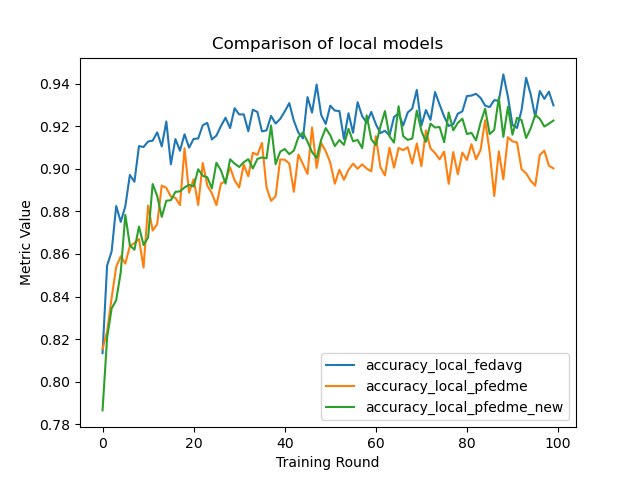
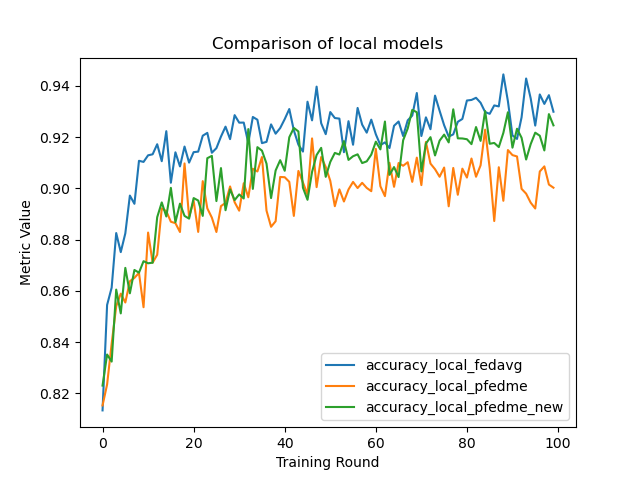
last run

diff --git a/hetero/pfedme/server.py b/hetero/pfedme/server.py
@@ -37,7 +37,7 @@ def fit_config(server_round: int):
     """Return training configuration dict for each round."""
 
     config = {
-        "lambda_reg":15,
+        "lambda_reg":5,
         "local_epochs":1,
         "local_rounds":120,
         "local_iterations":10
